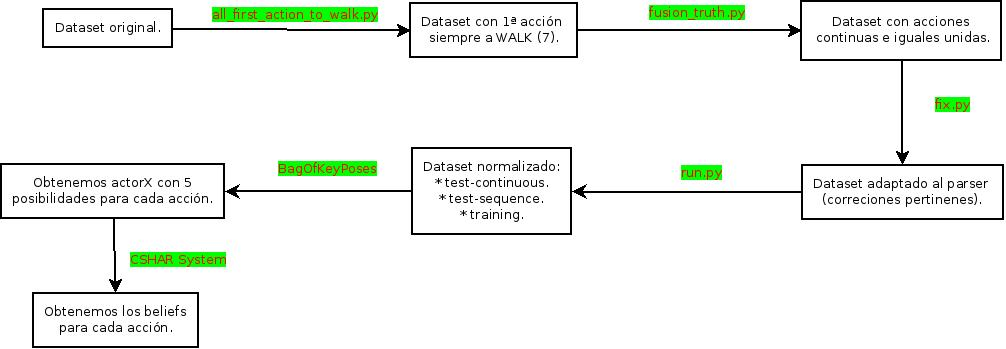
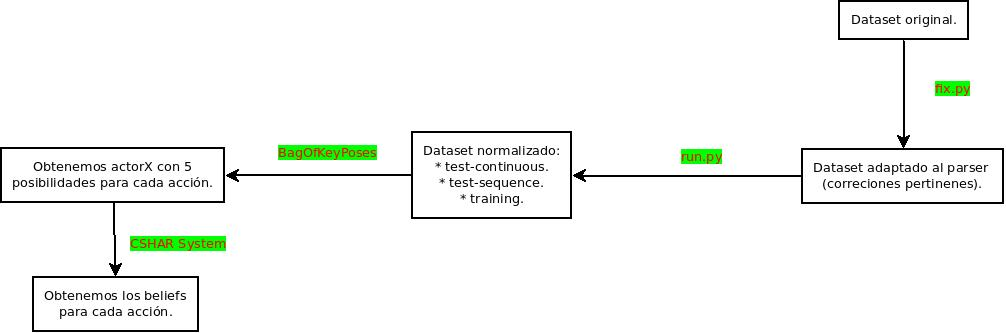
Documentation of XMLparser (2nd version) updated.

diff --git a/XMLparser/ForSecondKinbherDataset/doc/REEDME.md b/XMLparser/ForSecondKinbherDataset/doc/REEDME.md
@@ -1,5 +1,3 @@
 Ejecucción:
-	1). ejecutar all_first_action_to_walk.py --> Forzar que la primera acción sea siempre WALK (7). (Debe estar en el directoio raiz de RecogidaDatos/truth)
-	2). Ejecutar fusion_truth.py --> Unir acciones iguales de los ficheros truth. (Debe estar en el directoio raiz de RecogidaDatos/truth)
-	3). Ejecutar fix.py --> Prepara el KinbherDataset para adaptarlo al parser. (Debe estar en el directoio raiz de RecogidaDatos/videos/actores)
-	4). Ejecutar run.py --> Ejecuta el parser. (Debe estar en el directoio raiz de RecogidaDatos/truth y RecogidaDatos/videos/actores)
+	1). Ejecutar fix.py --> Prepara el KinbherDataset para adaptarlo al parser. (Debe estar en el directoio raiz de RecogidaDatos/videos/actores)
+	2). Ejecutar run.py --> Ejecuta el parser. (Debe estar en el directoio raiz de RecogidaDatos/truth y RecogidaDatos/videos/actores)
